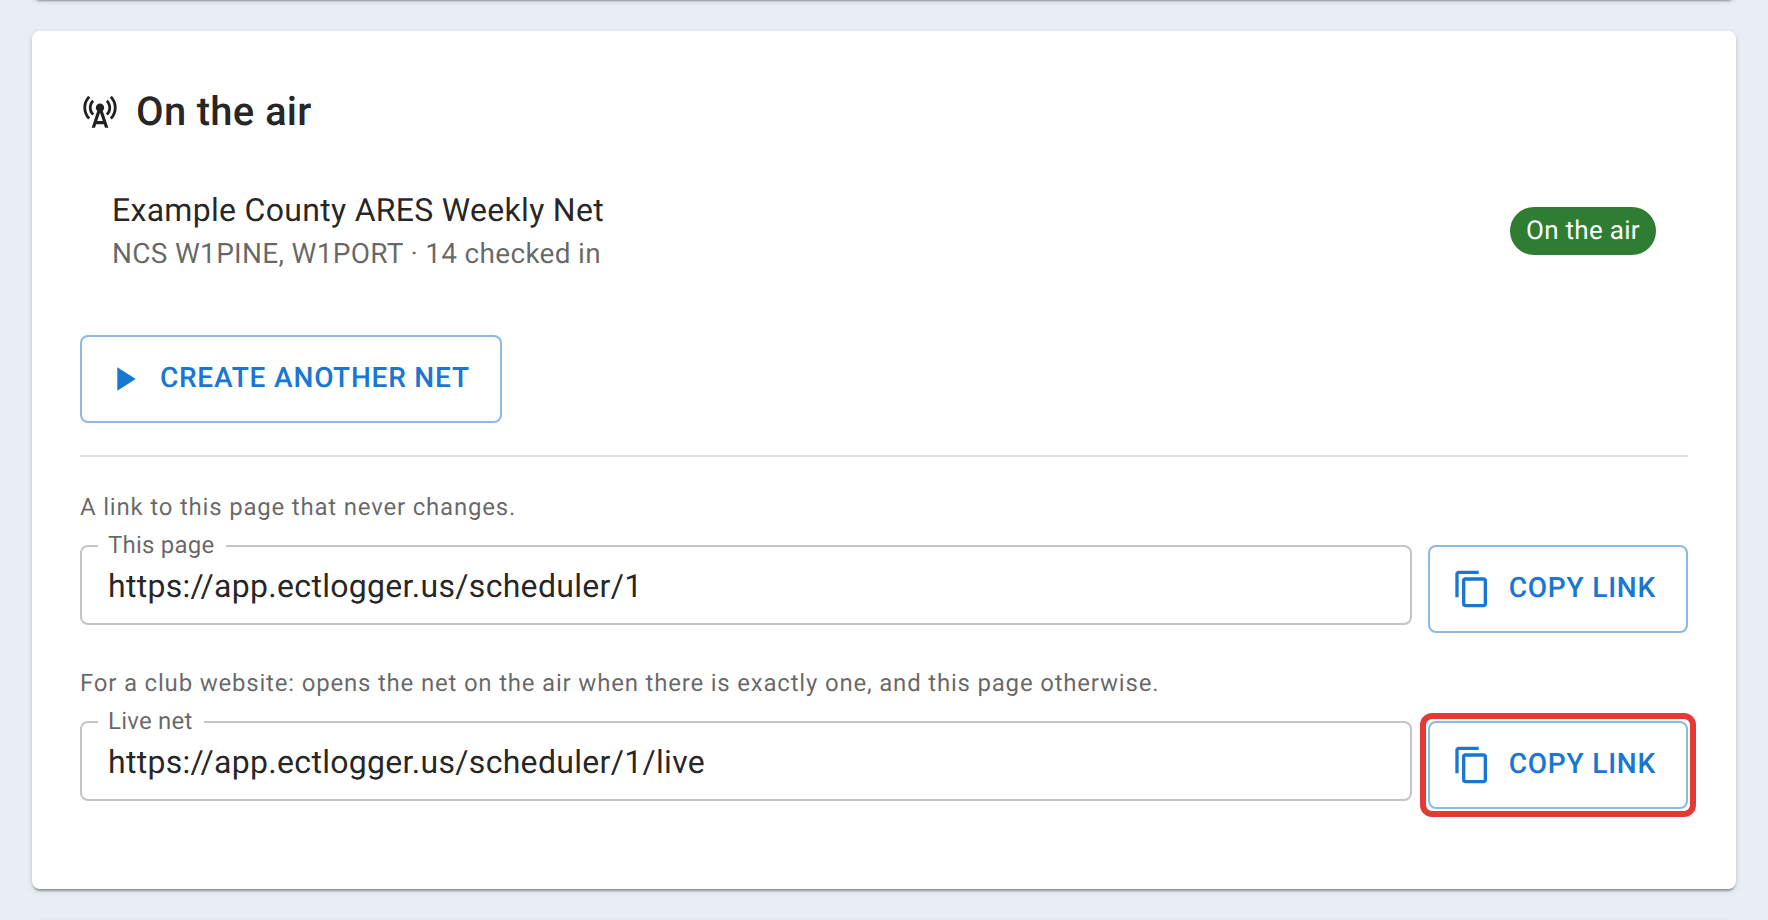
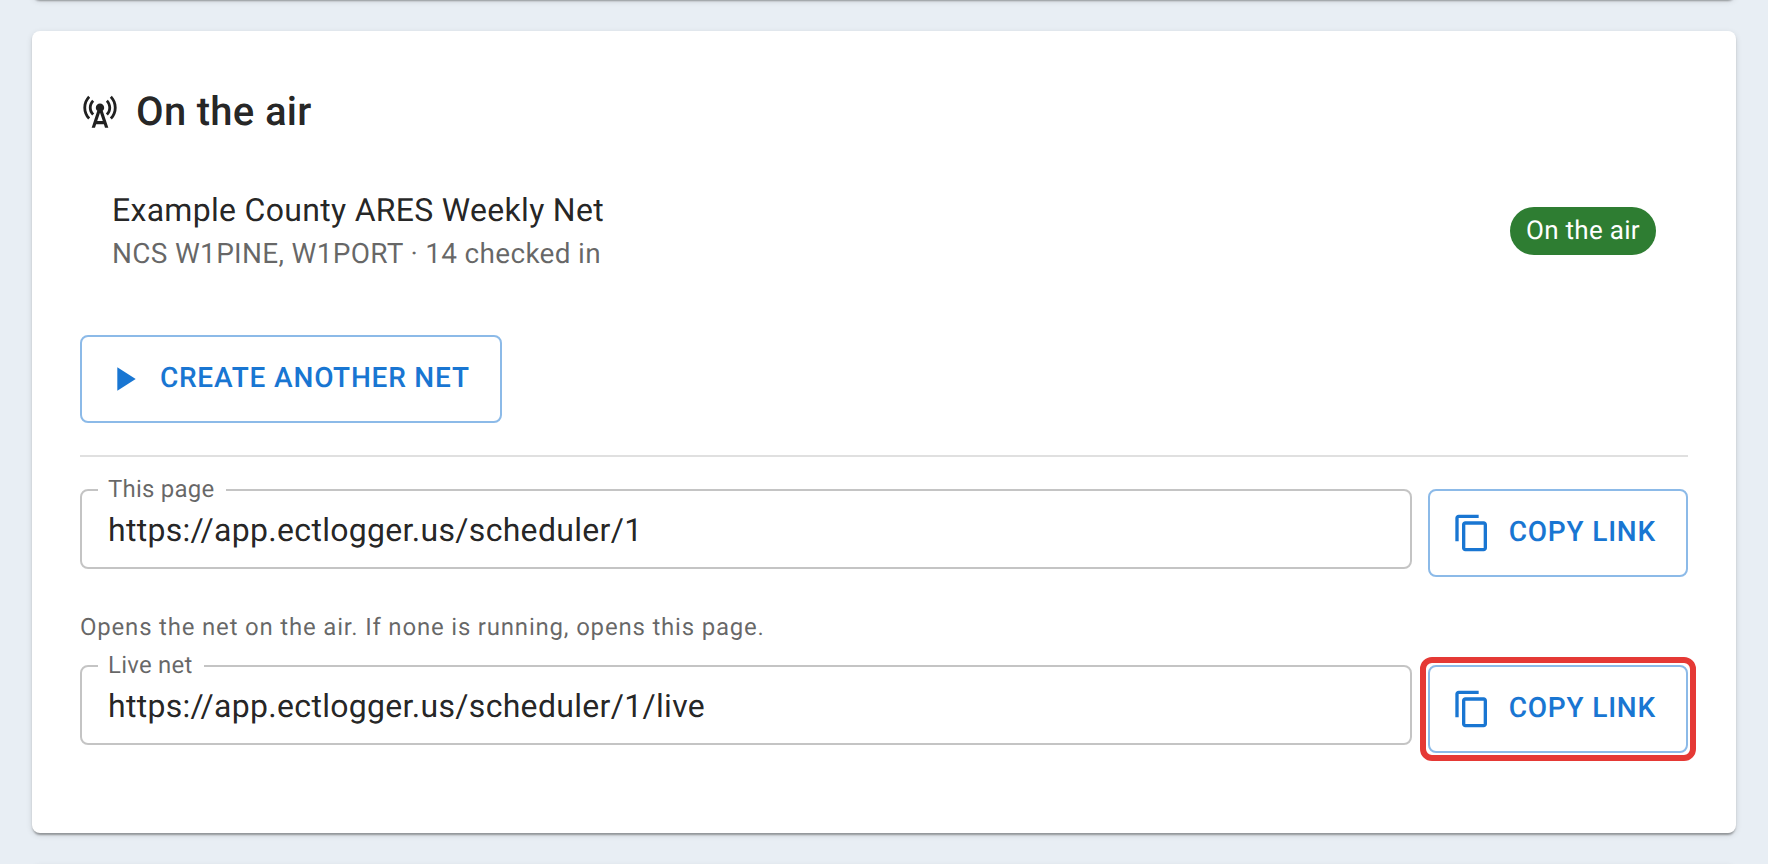
Schedule home page: plain wording for hints and docs
Drop filler phrasing Brad flagged ("a link that never changes", "when
there is exactly one") and the same kind elsewhere in the new docs and
caption. The This page field needs no hint. Add the rule to the
project instructions.

Claude-Session: https://claude.ai/code/session_01N38C5hU4iFQG7MHaLXB5jw

diff --git a/frontend/src/pages/ScheduleHome.tsx b/frontend/src/pages/ScheduleHome.tsx
@@ -296,7 +296,7 @@ const ScheduleHome: React.FC = () => {
         {/* Shows when nothing is running or waiting to start */}
         {currentNets.length === 0 && (
           <Typography variant="body2" color="text.secondary" sx={{ mb: canCreateNet ? 2 : 0 }}>
-            No net is running right now.
+            No net is running.
           </Typography>
         )}
 
@@ -328,8 +328,8 @@ const ScheduleHome: React.FC = () => {
           </List>
         )}
 
-        {/* Shows to staff who may create a net from this schedule. Secondary
-            when a net already exists, so the obvious click opens that one. */}
+        {/* Shows to staff who may create a net from this schedule. Outlined
+            when a net already exists, so it doesn't outrank opening that net. */}
         {canCreateNet && (
           <>
             <Button
@@ -352,13 +352,12 @@ const ScheduleHome: React.FC = () => {
             <ShareLinkField
               link={absoluteLink(scheduleHomePath(schedule.id))}
               label="This page"
-              hint="A link to this page that never changes."
               copiedMessage="Link copied"
             />
             <ShareLinkField
               link={absoluteLink(scheduleLivePath(schedule.id))}
               label="Live net"
-              hint="For a club website: opens the net on the air when there is exactly one, and this page otherwise."
+              hint="Opens the net on the air. If none is running, opens this page."
               copiedMessage="Link copied"
             />
           </>

diff --git a/frontend/src/components/scheduler/ShareLinkField.tsx b/frontend/src/components/scheduler/ShareLinkField.tsx
@@ -6,7 +6,7 @@ import { useSnackbar } from 'notistack';
 interface ShareLinkFieldProps {
   link: string;
   label: string;
-  hint: string;
+  hint?: string;
   copiedMessage: string;
 }
 
@@ -29,9 +29,12 @@ const ShareLinkField: React.FC<ShareLinkFieldProps> = ({ link, label, hint, copi
 
   return (
     <Box sx={{ mb: 2 }}>
-      <Typography variant="caption" color="text.secondary" display="block" sx={{ mb: 1 }}>
-        {hint}
-      </Typography>
+      {/* Shows only when the field needs more than its label */}
+      {hint && (
+        <Typography variant="caption" color="text.secondary" display="block" sx={{ mb: 1 }}>
+          {hint}
+        </Typography>
+      )}
       <Box sx={{ display: 'flex', gap: 1, flexWrap: 'wrap' }}>
         <TextField
           value={link}

diff --git a/docs/net-managers/net-staff-and-rotation.md b/docs/net-managers/net-staff-and-rotation.md
@@ -68,20 +68,20 @@ A net can legitimately have more than one active NCS at once: a multi-desk exerc
 
 ## Your schedule's page and live net link
 
-Every schedule has its own page, at a link that never changes. It shows the schedule's details, the net on the air, upcoming dates with their NCS, the staff, and past nets, and anyone can open it without signing in. Open it by clicking the schedule's name on the Schedule page. [Finding a net](/docs/operators/finding-a-net/#a-schedules-own-page) describes what visitors see.
+Every schedule has its own page. It shows the schedule's details, the net on the air, upcoming dates with their NCS, the staff, and past nets, and anyone can open it without signing in. A net's address is new for every net, but the schedule's address stays the same. Click the schedule's name on the Schedule page to open it. [Finding a net](/docs/operators/finding-a-net/#a-schedules-own-page) describes what visitors see.
 
 If you can create nets from the schedule, you also get:
 
-- **Create net** under **On the air**. It creates a net from the schedule and opens it, the same as **Create** on the schedule's card. When a net from the schedule already exists, the button reads **Create another net** and is outlined instead of filled, so the obvious click opens the existing net rather than starting a second one.
-- Two links to copy. **This page** is the page itself. **Live net** opens the net that's on the air when exactly one is (an open lobby counts), and the schedule's page otherwise.
+- **Create net** under **On the air**. It creates a net from the schedule and opens it, the same as **Create** on the schedule's card. When a net from the schedule already exists, the button reads **Create another net**. Open the existing net instead, unless you need two running at once.
+- Two links to copy. **This page** is the page itself. **Live net** opens the net that's on the air (an open lobby counts). If none is running, or two are, it opens the schedule's page.
 
 <figure>
   <img src="/docs/img/net-managers/schedule-page-links.png"
        alt="The On the air section of a schedule's page, seen by its manager: the net running now with its NCS, check-in count and an On the air chip, a Create another net button, and two links to copy, This page and Live net, with the Live net link's Copy link button outlined in red.">
-  <figcaption>The Live net link opens whichever net is on the air, so one link on your website always works.</figcaption>
+  <figcaption>Live net is the link to put on your club's website.</figcaption>
 </figure>
 
-Put the **Live net** link on your club's website or dashboard when your team needs to reach the net fast, such as for an activation. Members land in the running net with one click. When nothing is running, they reach the schedule's page, where any of your staff can create the net. Neither link is a secret: both show only what the public Schedule page already shows.
+Put the **Live net** link on your club's website or dashboard for activations. While a net is running, the link opens it. When none is, it opens the schedule's page, where your staff can create one. Neither link is secret: both show only what the public Schedule page already shows.
 
 ## Inviting people to subscribe
 

diff --git a/docs/operators/finding-a-net.md b/docs/operators/finding-a-net.md
@@ -98,7 +98,7 @@ In the card and list views, schedules you've starred come first under **Favorite
 
 ## A schedule's own page
 
-Every schedule has a page of its own. Click a schedule's name on the Schedule page to open it, or **Schedule** on a net's **Net info** card. Your club may also link to it from its own website, since its address never changes. You don't need to sign in to read it. From top to bottom it shows:
+Every schedule has a page of its own. Click a schedule's name on the Schedule page to open it, or **Schedule** on a net's **Net info** card. Your club may also link to it from its own website. You don't need to sign in to read it. It shows:
 
 - **The net's details** - its description, when it runs, its frequencies, a link to its website, its **Stats**, and **Subscribe**.
 - **On the air** - the net from this schedule that's running now, or one that has been created and hasn't started yet. Click it to open the net. If nothing is running, the page says so.
@@ -106,7 +106,7 @@ Every schedule has a page of its own. Click a schedule's name on the Schedule pa
 - **Net staff** - the net manager and the operators who run the net. **Staff** opens the full list and the rotation.
 - **Past nets** - the latest ten, each opening its report. **All past nets and statistics** opens the schedule's statistics.
 
-Your club's website may instead have a **live net** link. It opens the net that's on the air right now, and the schedule's page when none is, or when more than one is running at once.
+Your club's website may instead have a **live net** link. It opens the net that's on the air, or the schedule's page when none is running or two are.
 
 ## Seeing the month on a calendar
 

diff --git a/.github/copilot-instructions.md b/.github/copilot-instructions.md
@@ -896,6 +896,14 @@ on multi-part work. The guardrail is a deliberate checkpoint.
   explicitly requested.
 - No em-dashes in source code or generated text — use commas, periods,
   or parentheses.
+- **No filler phrasing in anything a user reads** (UI text, docs, changelog,
+  figure captions). Brad, 2026-11-07: phrases like "a link that never
+  changes", "when there is exactly one", "so the obvious click", "always
+  works", "right now", "with one click", or "reach the net fast" read as
+  AI-generated, which makes the app look cheap and untrusted. State the plain
+  fact once ("Opens the net on the air. If none is running, opens this
+  page."), leave edge cases to the docs, and drop a hint a label already
+  covers. Reread every new string for this before showing it to Brad.
 
 ### Feature Registry
 
